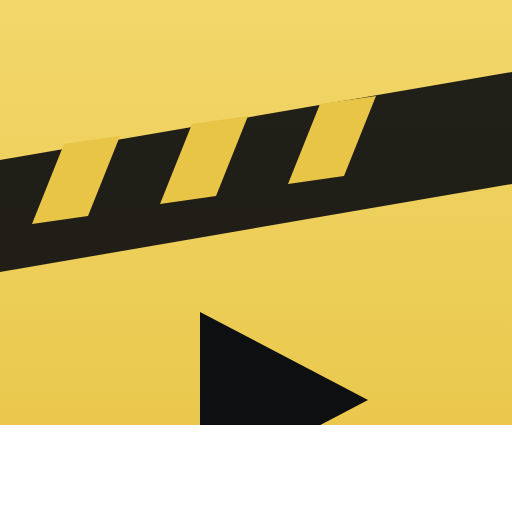
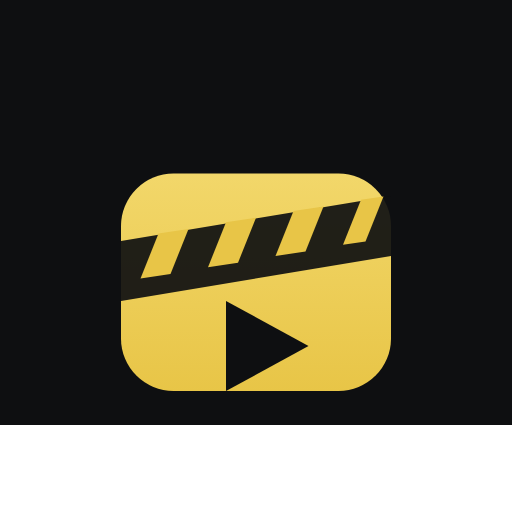
Icône PWA : style app propre (fond sombre + clap centré), déclaration comme FuelLog
Le clap doré débordait jusqu'aux bords → iOS, en arrondissant les coins, rognait
le dessin (icône qui rendait mal). Nouvelle icône calquée sur FuelLog (qui marche)
: fond sombre #0e0f11 + logo centré avec marge → coins propres, rien de coupé.
Déclaration alignée sur FuelLog : apple-touch-icon principal sans sizes + variante
192, sans -precomposed, chemins sans query. Icônes 180/192/512 + maskable
régénérées dans ce style. Cache SW v50.

Claude-Session: https://claude.ai/code/session_01VqHXHC8AURnnmaawoj9rY5

diff --git a/panel/templates/index.html b/panel/templates/index.html
@@ -11,8 +11,8 @@
   <meta name="mobile-web-app-capable" content="yes">
   <meta name="apple-mobile-web-app-status-bar-style" content="black-translucent">
   <meta name="apple-mobile-web-app-title" content="cinéthèque">
-  <link rel="apple-touch-icon" sizes="180x180" href="/apple-touch-icon.png">
-  <link rel="apple-touch-icon-precomposed" href="/apple-touch-icon-precomposed.png">
+  <link rel="apple-touch-icon" href="/apple-touch-icon.png">
+  <link rel="apple-touch-icon" sizes="192x192" href="/static/icon-192.png">
   <!-- Connexion anticipée au CDN d'images TMDB : évite le lag au premier chargement
        (le handshake TLS est fait pendant que la page se construit). -->
   <link rel="preconnect" href="https://image.tmdb.org" crossorigin>

diff --git a/panel/templates/login.html b/panel/templates/login.html
@@ -6,8 +6,8 @@
   <title>Connexion — cinéthèque</title>
   <meta name="theme-color" content="#0e0f11">
   <link rel="icon" href="{{ asset('favicon.svg') }}" type="image/svg+xml">
-  <link rel="apple-touch-icon" sizes="180x180" href="/apple-touch-icon.png">
-  <link rel="apple-touch-icon-precomposed" href="/apple-touch-icon-precomposed.png">
+  <link rel="apple-touch-icon" href="/apple-touch-icon.png">
+  <link rel="apple-touch-icon" sizes="192x192" href="/static/icon-192.png">
   <link rel="stylesheet" href="{{ asset('fonts.css') }}">
   <link rel="stylesheet" href="{{ asset('style.css') }}">
 </head>

diff --git a/panel/static/sw.js b/panel/static/sw.js
@@ -1,7 +1,7 @@
 /* Service worker de cinéthèque (PWA).
    Met en cache la coquille de l'app pour un démarrage rapide et un affichage
    même hors ligne. Les appels /api/ et /media/ ne sont jamais mis en cache. */
-const CACHE = "cinetheque-v49";
+const CACHE = "cinetheque-v50";
 
 self.addEventListener("install", () => self.skipWaiting());
 
